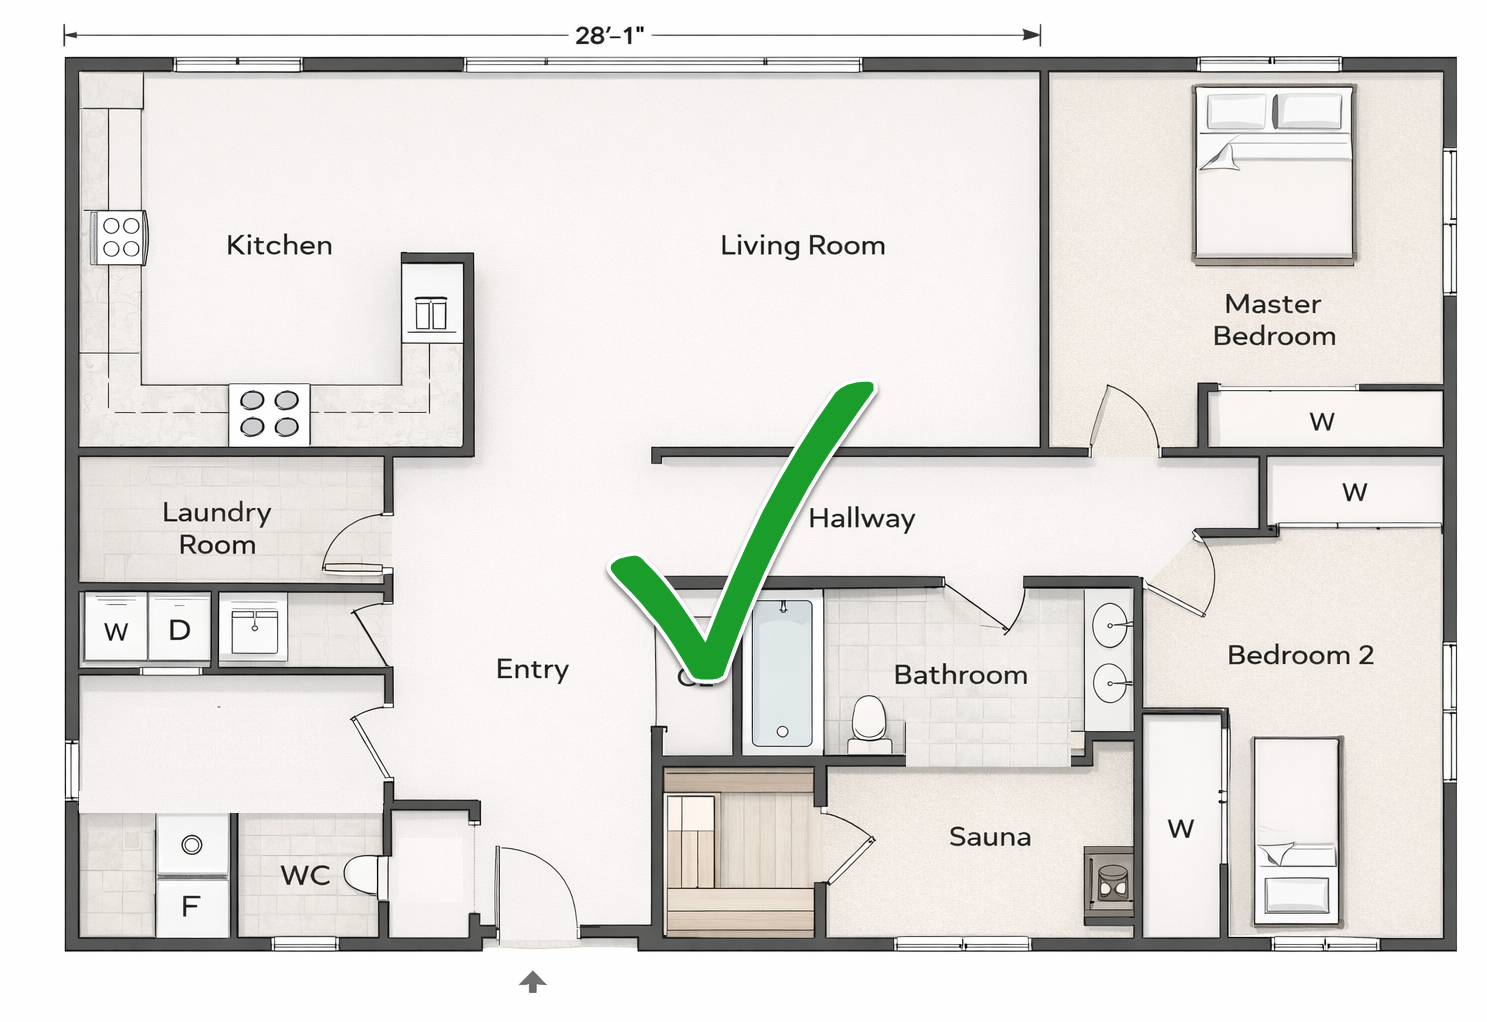
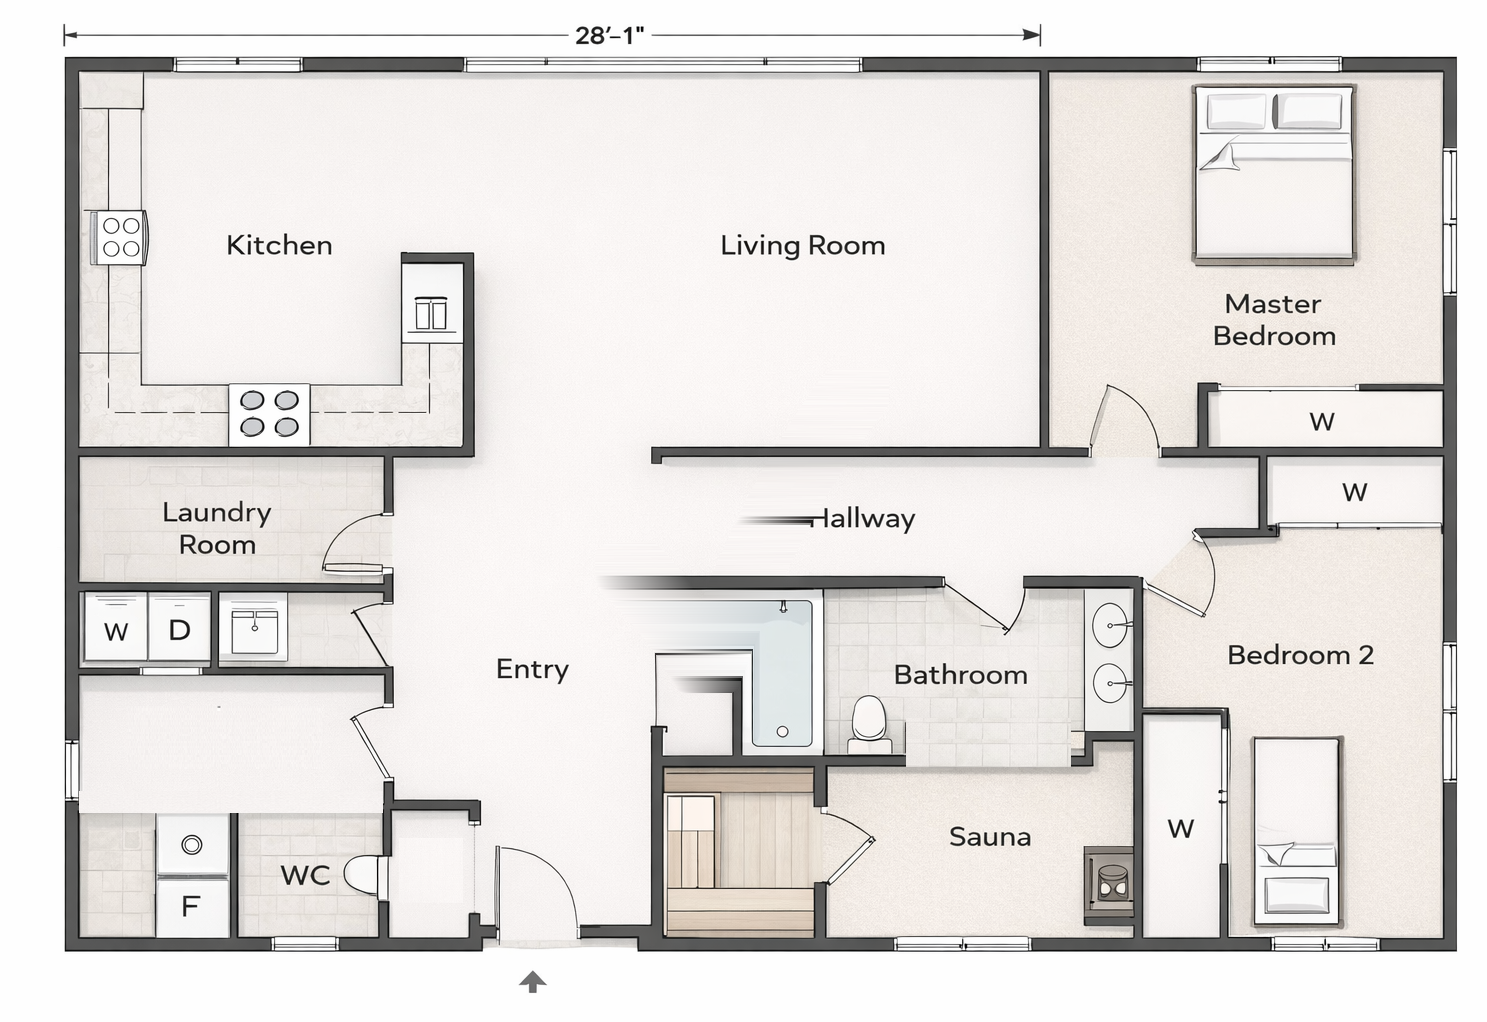
Marketing: winning hero copy, clean floorplan, tighter mobile section spacing
- Hero: "Walk. Tap. Priced. / A full scope in minutes." with a speed- and
  ease-of-use-led paragraph (the chosen direction).
- Remove the baked-in green checkmark from the AI-reviews floorplan image
  (masked the green + halo and reconstructed walls with a directional fill).
- Cut mobile section whitespace further: --sect 2rem under 640px, with tighter
  section-head margins, .section--tight, and the logos strip.

Claude-Session: https://claude.ai/code/session_013KCVsu45vQT2vmYt7LNQUf

Changed region(s): [[0.4022, 0.364, 0.5878, 0.6977]]

diff --git a/pages/index.tsx b/pages/index.tsx
@@ -37,7 +37,7 @@ const CSS = `
 .wrap{max-width:var(--wrap);margin-inline:auto;padding-inline:var(--gutter)}
 .wrap-lg{max-width:1320px;margin-inline:auto;padding-inline:var(--gutter)}
 .section{padding-block:var(--sect)}.section--mist{background:var(--mist)}.section--tight{padding-block:clamp(3rem,5vw,4.5rem)}
-@media(max-width:640px){:root{--sect:2.75rem}.section--tight{padding-block:2.25rem}.section-head{margin-bottom:1.6rem}}
+@media(max-width:640px){:root{--sect:2rem}.section--tight{padding-block:1.75rem}.section-head{margin-bottom:1.25rem}.logos{padding-block:1.5rem}}
 .eyebrow{font-family:var(--f-body);font-weight:700;font-size:var(--fs-eyebrow);letter-spacing:.16em;text-transform:uppercase;color:var(--pink);display:inline-flex;align-items:center;gap:.55em;margin:0 0 1.1rem}
 .eyebrow__ico{width:24px;height:24px;border-radius:7px;background:var(--pink-050);color:var(--pink);display:grid;place-items:center;flex:none}
 .eyebrow--center{justify-content:center}.eyebrow--light{color:var(--aqua)}.eyebrow--light .eyebrow__ico{background:rgba(115,227,223,.14);color:var(--aqua)}
@@ -484,8 +484,8 @@ export default function SitePreview() {
           <div className="wrap-lg hero__in">
             <div className="hero__copy reveal">
               <span className="badge"><svg width="14" height="14" viewBox="0 0 24 24" fill="none" stroke="currentColor" strokeWidth="1.8" strokeLinecap="round" strokeLinejoin="round"><path d="M13 2L4 14h7l-1 8 9-12h-7l1-8z" /></svg> The #1 Property Management Tool</span>
-              <h1 className="h1">One walk in.<br /><span className="lite">A priced, dispatched work order out.</span></h1>
-              <p className="lead">ResiWalk turns a single walkthrough into finished, priced work — before you leave the driveway. One pass captures every photo, prices each line against live regional rate cards, and generates vendor-ready PDFs and scopes of work, every finding AI-reviewed on site. No back-office re-pricing, no second trip, no stack of apps — just faster turns, defensible numbers, and total control, tailored to exactly how your team works. Built by SFR &amp; BTR operators who&apos;ve walked the homes and chased the invoices themselves.</p>
+              <h1 className="h1">Walk. Tap. Priced.<br /><span className="lite">A full scope in minutes.</span></h1>
+              <p className="lead">A fully priced scope, generated as fast as you can walk the home — and simple enough that your whole field team actually uses it. Every line prices live against regional rate cards; you leave with vendor-ready PDFs, scopes of work, and AI-reviewed findings. No spreadsheets, no second pass, no learning curve. Built by SFR &amp; BTR operators who&apos;ve walked the homes and chased the invoices themselves.</p>
               <div className="hero__cta">
                 <a href="#contact" className="btn btn--lg btn--pill">Book a demo</a>
               </div>